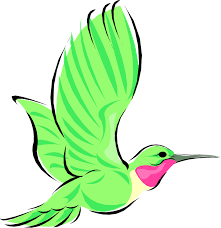
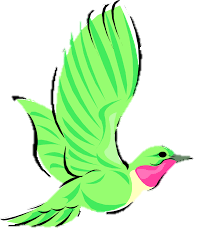
Blitz Update

diff --git a/Week8/Day3/blitz/src/components/Header/index.js b/Week8/Day3/blitz/src/components/Header/index.js
@@ -1,6 +1,6 @@
 import React, { Component } from 'react';
 import { connect } from 'react-redux';
-import logo from './icon2.png';
+import logo from './icon.png';
 import './style.css';
 import { logOutUser } from '../../store/actions';
 import { Link } from 'react-router-dom';
@@ -57,77 +57,3 @@ const mapStateToProps = (state) => {
 }
 
 export default connect(mapStateToProps)(Header); // to get dispatch()
-
-// <Link to="/feed"><IconButton><MoreVertIcon /></IconButton></Link>
-//<Logout nextPage = { this.props.nextPage }/>
-//<h5>Hi {this.props.currentUser.username}!</h5>
-// <img src={ this.props.currentUser.avatar} />
-// const mapStateToProps = (state) => {
-//   return state;
-// }
-// connect(mapStateToProps)(Header)
-
-// <div className="Header">
-//           <AppBar
-//               title= {currentUser.username}
-//               className="MenuBar"
-//               style={ { 'textAlign':'left', 'backgroundColor': '#0EEDAE' } }
-//               showMenuIconButton= {false}
-//               //iconClassNameRight="muidocs-icon-navigation-expand-more"
-//               //iconElementLeft={<IconButton><NavigationClose /></IconButton>}
-//               >
-//               <IconMenu
-//                 iconButtonElement={ <IconButton><MoreVertIcon /></IconButton> }
-//                 // targetOrigin={{horizontal: 'left', vertical: 'top'}}
-//                 // anchorOrigin={{horizontal: 'left', vertical: 'top'}}
-//                 iconStyle={{ 'color': 'white', 'align': 'left', 'marginTop': '8px'}}
-//               >
-//                 <MenuItem primaryText="Feed" onClick={ this.goToFeed } />
-//                 <MenuItem primaryText="Profile" onClick={ this.goToProfile } />
-//                 <MenuItem primaryText="Likes" onClick={ this.goToLikes } />
-//                 <MenuItem primaryText="Users" onClick={ this.goToUsers } />
-//                 <MenuItem primaryText="Sign out" onClick={ this.logOut } />
-//               </IconMenu>
-              
-//             </AppBar>
-//           <h2>Blitz</h2>
-//         </div>
-
-
-// <AppBar 
-//             style={ { 'textAlign':'left', 'backgroundColor': '#0EEDAE' } } 
-//             showMenuIconButton= {false}
-//             iconElementRight={<FlatButton label="Menu">}>
-
-//               <MenuItem primaryText="Feed" onClick={ this.goToFeed } />
-//                   <MenuItem primaryText="Likes" onClick={ this.goToLikes } />
-//                   <MenuItem primaryText="Users" onClick={ this.goToUsers } />
-//                   <MenuItem primaryText="Your Profile" onClick={ this.goToProfile }/>
-//                   <MenuItem primaryText="Sign out" onClick={ this.logOut } />
-
-//           </FlatButton>} >
-            
-//             <h3 style={ { 'textAlign':'right'} }>Hi {currentUser.username}!</h3>
-            
-//             <RaisedButton
-//               onTouchTap={this.handleTouchTap}
-//               label="Menu"
-//               className="MenuButton"
-//             />
-//               <Popover
-//                 open={this.state.open}
-//                 anchorEl={this.state.anchorEl}
-//                 anchorOrigin={{horizontal: 'left', vertical: 'bottom'}}
-//                 targetOrigin={{horizontal: 'left', vertical: 'top'}}
-//                 onRequestClose={this.handleRequestClose}
-//               >
-//                 <Menu>
-//                   <MenuItem primaryText="Feed" onClick={ this.goToFeed } />
-//                   <MenuItem primaryText="Likes" onClick={ this.goToLikes } />
-//                   <MenuItem primaryText="Users" onClick={ this.goToUsers } />
-//                   <MenuItem primaryText="Your Profile" onClick={ this.goToProfile }/>
-//                   <MenuItem primaryText="Sign out" onClick={ this.logOut } />
-//                 </Menu>
-//               </Popover>
-
-//            </AppBar>

diff --git a/Week8/Day3/blitz/src/components/FeedItem/index.js b/Week8/Day3/blitz/src/components/FeedItem/index.js
@@ -1,10 +1,6 @@
 import React, { Component } from 'react';
 import ToolBar from '../../components/ToolBar';
-
 import {Card, CardHeader, CardText} from 'material-ui/Card';
-//import FlatButton from 'material-ui/FlatButton';
-//import IconButton from 'material-ui/IconButton';
-//import StarBorder from 'material-ui/svg-icons/toggle/star-border';
 import Checkbox from 'material-ui/Checkbox';
 import ActionFavorite from 'material-ui/svg-icons/action/favorite';
 import ActionFavoriteBorder from 'material-ui/svg-icons/action/favorite-border';
@@ -12,8 +8,6 @@ import ActionFavoriteBorder from 'material-ui/svg-icons/action/favorite-border';
 class FeedItem extends Component {  
 
   render() {
-    //console.log('feeditem props', this.props)
-
     // extra variables
     const feed = this.props.feedItem;
     const feedAuthor = this.props.feedItem._user;

diff --git a/Week8/Day3/blitz/src/Routes/Users/index.js b/Week8/Day3/blitz/src/Routes/Users/index.js
@@ -1,11 +1,9 @@
 import React, { Component } from 'react';
 import { connect } from 'react-redux';
 import FlatButton from 'material-ui/FlatButton';
-
 import { fetchUsers, fetchProfile } from '../../store/actions';
 import Header from '../../components/Header';
 import UserItem from '../../components/UserItem';
-
 import Footer from '../../components/Footer';
 
 class Users extends Component {
@@ -53,4 +51,3 @@ const mapStateToProps = (state) => {
 }
 
 export default connect(mapStateToProps)(Users);
-

diff --git a/Week8/Day3/blitz/src/Routes/SignUp/index.js b/Week8/Day3/blitz/src/Routes/SignUp/index.js
@@ -1,14 +1,11 @@
 import React, { Component } from 'react';
 import { connect } from 'react-redux';
-
 import { login, fetchFeedCreator } from '../../store/actions';
 import WelcomeHeader from '../../components/WelcomeHeader';
 import Footer from '../../components/Footer';
 import '../Home/style.css';
-
 import { RaisedButton } from 'material-ui';
 import TextField from 'material-ui/TextField';
-import Paper from 'material-ui/Paper';
 
 class SignUp extends Component {
 

diff --git a/Week8/Day3/blitz/src/Routes/Login/index.js b/Week8/Day3/blitz/src/Routes/Login/index.js
@@ -1,14 +1,11 @@
 import React, { Component } from 'react';
 import { connect } from 'react-redux';
-
 import { login, fetchFeedCreator } from '../../store/actions';
 import WelcomeHeader from '../../components/WelcomeHeader';
 import Footer from '../../components/Footer';
 import '../Home/style.css';
-
 import { RaisedButton } from 'material-ui';
 import TextField from 'material-ui/TextField';
-import Paper from 'material-ui/Paper';
 
 class Login extends Component {
 

diff --git a/Week8/Day3/blitz/src/components/LikesItem/index.js b/Week8/Day3/blitz/src/components/LikesItem/index.js
@@ -8,9 +8,6 @@ import ActionAndroid from 'material-ui/svg-icons/action/android';
 class LikesItem extends Component {
 
   render() {
-    // extra variables
-    console.log('likes item', this.props)
-    
     return (
         <Card expandable={false} >
           <CardHeader title="like" avatar="avatar"  subtitle="subtitle"/>,
@@ -26,4 +23,3 @@ class LikesItem extends Component {
 }
 
 export default LikesItem;
-

diff --git a/Week8/Day3/blitz/src/Routes/Profile/index.js b/Week8/Day3/blitz/src/Routes/Profile/index.js
@@ -1,7 +1,6 @@
 import React, { Component } from 'react';
 import { connect } from 'react-redux';
 import { fetchProfile } from '../../store/actions';
-
 import Header from '../../components/Header';
 import Footer from '../../components/Footer';
 
@@ -33,4 +32,3 @@ const mapStateToProps = (state) => {
 }
 
 export default connect(mapStateToProps)(Profile);
-

diff --git a/Week8/Day3/blitz/src/components/WelcomeHeader/index.js b/Week8/Day3/blitz/src/components/WelcomeHeader/index.js
@@ -1,6 +1,5 @@
 import React, { Component } from 'react';
-//import logo from './logo.svg';
-import logo from '../Header/icon2.png';
+import logo from '../Header/icon.png';
 import './style.css';
 
 class WelcomeHeader extends Component {
@@ -17,5 +16,3 @@ class WelcomeHeader extends Component {
 }
 
 export default WelcomeHeader;
-
-// Trademark logo 

diff --git a/Week8/Day3/blitz/src/components/ToolBar/index.js b/Week8/Day3/blitz/src/components/ToolBar/index.js
@@ -12,7 +12,6 @@ import './style.css';
 export default class FeedBlitzToolbar extends React.Component {
 
   render() {
-    //console.log('toolbar props', this.props)
     return (
       <Toolbar style= { { 'height': '30px', 'backgroundColor': 'white' } }>
         <ToolbarGroup>

diff --git a/Week8/Day3/blitz/src/components/NewBlitz/index.js b/Week8/Day3/blitz/src/components/NewBlitz/index.js
@@ -23,7 +23,6 @@ class NewBlitz extends Component {
   };
 
   render() {
-    console.log('blitz props', this.props)
     return (
         <Card expandable={false} >
           <CardTitle title="What would you like to share?" subtitle="Tell us!" />

diff --git a/Week8/Day3/blitz/src/components/Footer/style.css b/Week8/Day3/blitz/src/components/Footer/style.css
@@ -3,10 +3,9 @@
 	font-size: 10px;
 	color: grey;
 	position: relative;
-  right: 0;
-  bottom: 0;
-  left: 0;
-  width: 99%;
-  padding: 5px;
-  
+  	right: 0;
+  	bottom: 0;
+  	left: 0;
+  	width: 99%;
+  	padding: 5px;
 }

diff --git a/Week8/Day3/blitz/src/components/Header/style.css b/Week8/Day3/blitz/src/components/Header/style.css
@@ -1,7 +1,3 @@
-.Blitz {
-  /*text-align: center;*/
-}
-
 .Header {
   background-color: white; /*#0EEDAE;*/
   height: 50px;
